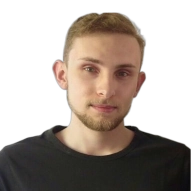
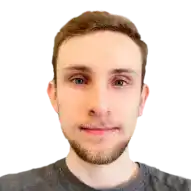
Added publication + URL + image

diff --git a/themes/Arsha/layouts/partials/team.html b/themes/Arsha/layouts/partials/team.html
@@ -14,8 +14,9 @@
             <h4>Heiko Bornholdt</h4>
             <span>Research Assistant</span>
             <div class="social">
-              <a href="https://vsis-www.informatik.uni-hamburg.de/vsis/members/look/2241"><i class="bi bi-globe2"></i></a>
-              <a href="https://github.com/heikobornholdt"><i class="bi bi-github"></i></a>
+              <a href="https://www.inf.uni-hamburg.de/en/inst/ab/net/team/bornholdt.html" rel="noopener"><i class="bi bi-briefcase-fill"></i></a>
+              <a href="https://scholar.google.de/citations?user=yduw2dUAAAAJ&sortby=pubdate" rel="noopener"><i class="bi bi-google"></i></a>
+              <a href="https://github.com/heikobornholdt" rel="noopener"><i class="bi bi-github"></i></a>
             </div>
           </div>
         </div>
@@ -27,8 +28,10 @@
             <h4>Kevin Röbert</h4>
             <span>Research Assistant</span>
             <div class="social">
-              <a href="https://www.inf.uni-hamburg.de/en/inst/ab/net/team/roebert.html"><i class="bi bi-globe2"></i></a>
-              <a href="https://github.com/KevinRoebert/"><i class="bi bi-github"></i></a>
+              <a href="https://www.inf.uni-hamburg.de/en/inst/ab/net/team/roebert.html" rel="noopener"><i class="bi bi-briefcase-fill"></i></a>
+              <a href="https://scholar.google.de/citations?user=xToIgMUAAAAJ&sortby=pubdate" rel="noopener"><i class="bi bi-google"></i></a>
+              <a href="https://github.com/KevinRoebert/" rel="noopener"><i class="bi bi-github"></i></a>
+              <a href="https://www.linkedin.com/in/kevin-r-200969242/" rel="noopener"><i class="bi bi-linkedin"></i></a>
             </div>
           </div>
         </div>

diff --git a/themes/Arsha/layouts/partials/publications.html b/themes/Arsha/layouts/partials/publications.html
@@ -14,6 +14,11 @@
           "Low-Latency TLS-1.3-aware Hole Punching",
           <i>Submitted for Publication</i>.
         </p>
+        <p>
+          H. Bornholdt, K. Röbert, M. Breitbach, M. Fischer and J. Edinger,
+          "Measuring the Edge: A Performance Evaluation of Edge Offloading",
+          <i>Submitted for Publication</i>.
+        </p>
       </div>
     </div>
   </div>
